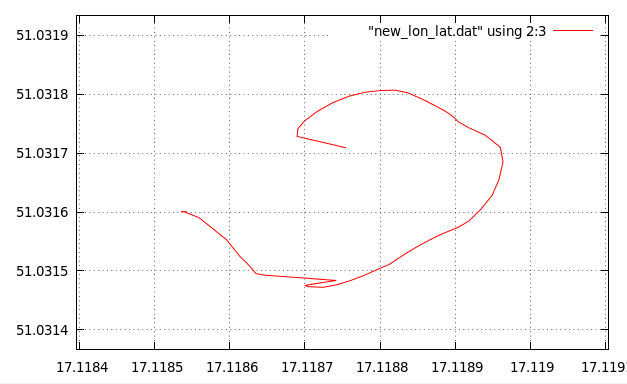
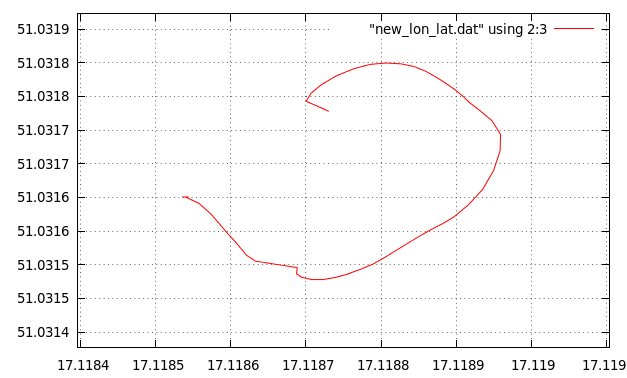
Testing Accuracy

diff --git a/src/KalmanFilter.java b/src/KalmanFilter.java
@@ -1,9 +1,8 @@
 import com.google.common.eventbus.Subscribe;
 
 public class KalmanFilter {
-    private final float MIN_ACCURACY = 1f;
 
-    private float speed; // meters per second
+
     private long timeStamp; // millis
     private double latitude; // degree
     private double longitude; // degree
@@ -22,13 +21,12 @@ public class KalmanFilter {
     public void onLocationUpdate(GPSSingleData singleData) {
         // if gps receiver is able to return 'accuracy' of position, change last variable
         process(singleData.getSpeed(), singleData.getLatitude(), singleData.getLongitude(), singleData.getTimestamp(),
-                MIN_ACCURACY);
+                Constants.MIN_ACCURACY);
     }
 
     // Init method (use this after constructor, and before process)
     // if you are using last known data from gps)
     public void setState(float speed, double latitude, double longitude, long timeStamp, float accuracy) {
-        this.speed = speed;
         this.latitude = latitude;
         this.longitude = longitude;
         this.timeStamp = timeStamp;
@@ -44,9 +42,10 @@ public class KalmanFilter {
      * newTimeStamp - time of measurement in millis
      */
     public void process(float newSpeed, double newLatitude, double newLongitude, long newTimeStamp, float newAccuracy) {
-        if (newAccuracy < MIN_ACCURACY) {
-            newAccuracy = MIN_ACCURACY;
-        }
+        // Uncomment this, if you are receiving accuracy from your gps
+        // if (newAccuracy < Constants.MIN_ACCURACY) {
+        //      newAccuracy = Constants.MIN_ACCURACY;
+        // }
         if (variance < 0) {
             // if variance < 0, object is unitialised, so initialise with current values
             setState(newSpeed, newLatitude, newLongitude, newTimeStamp, newAccuracy);

diff --git a/src/Constants.java b/src/Constants.java
@@ -1,4 +1,6 @@
 public class Constants {
+    public static final float MIN_ACCURACY = 3f;
+
     public static final String GPS_FILE_IMPORT = "lon_lat.dat";
     public static final String GPS_FILE_EXPORT = "new_lon_lat.dat";
 }
